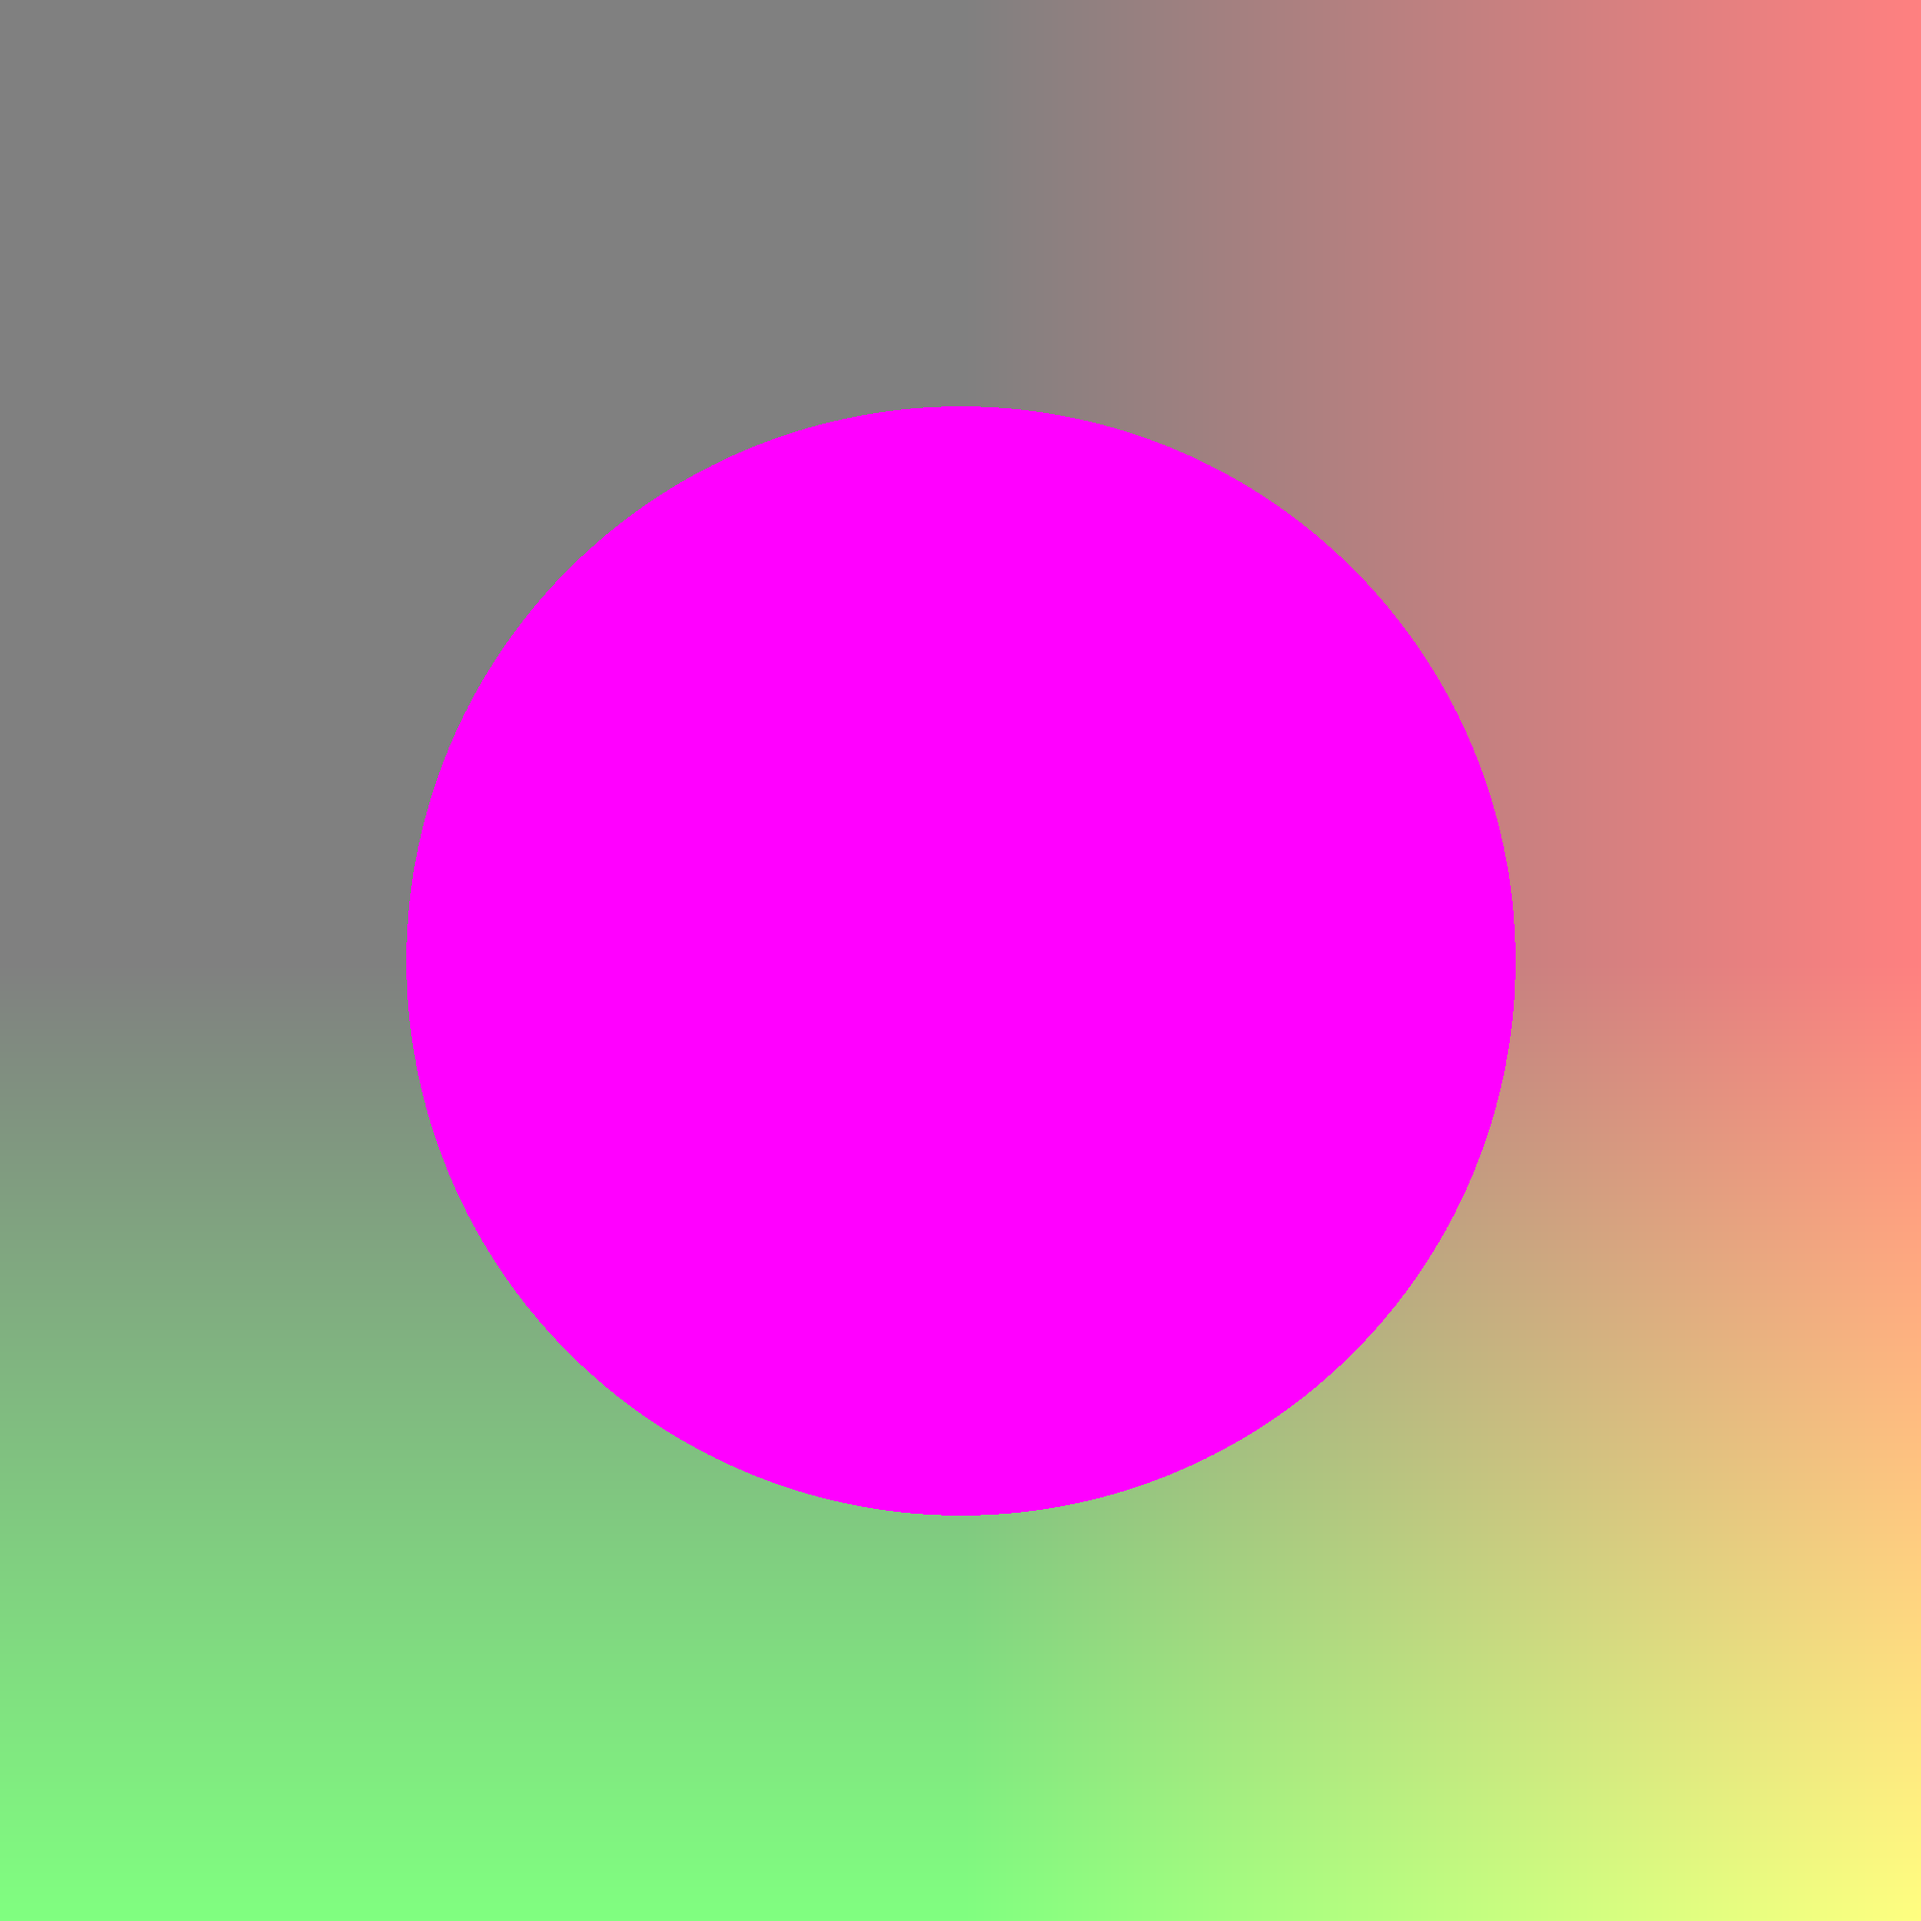
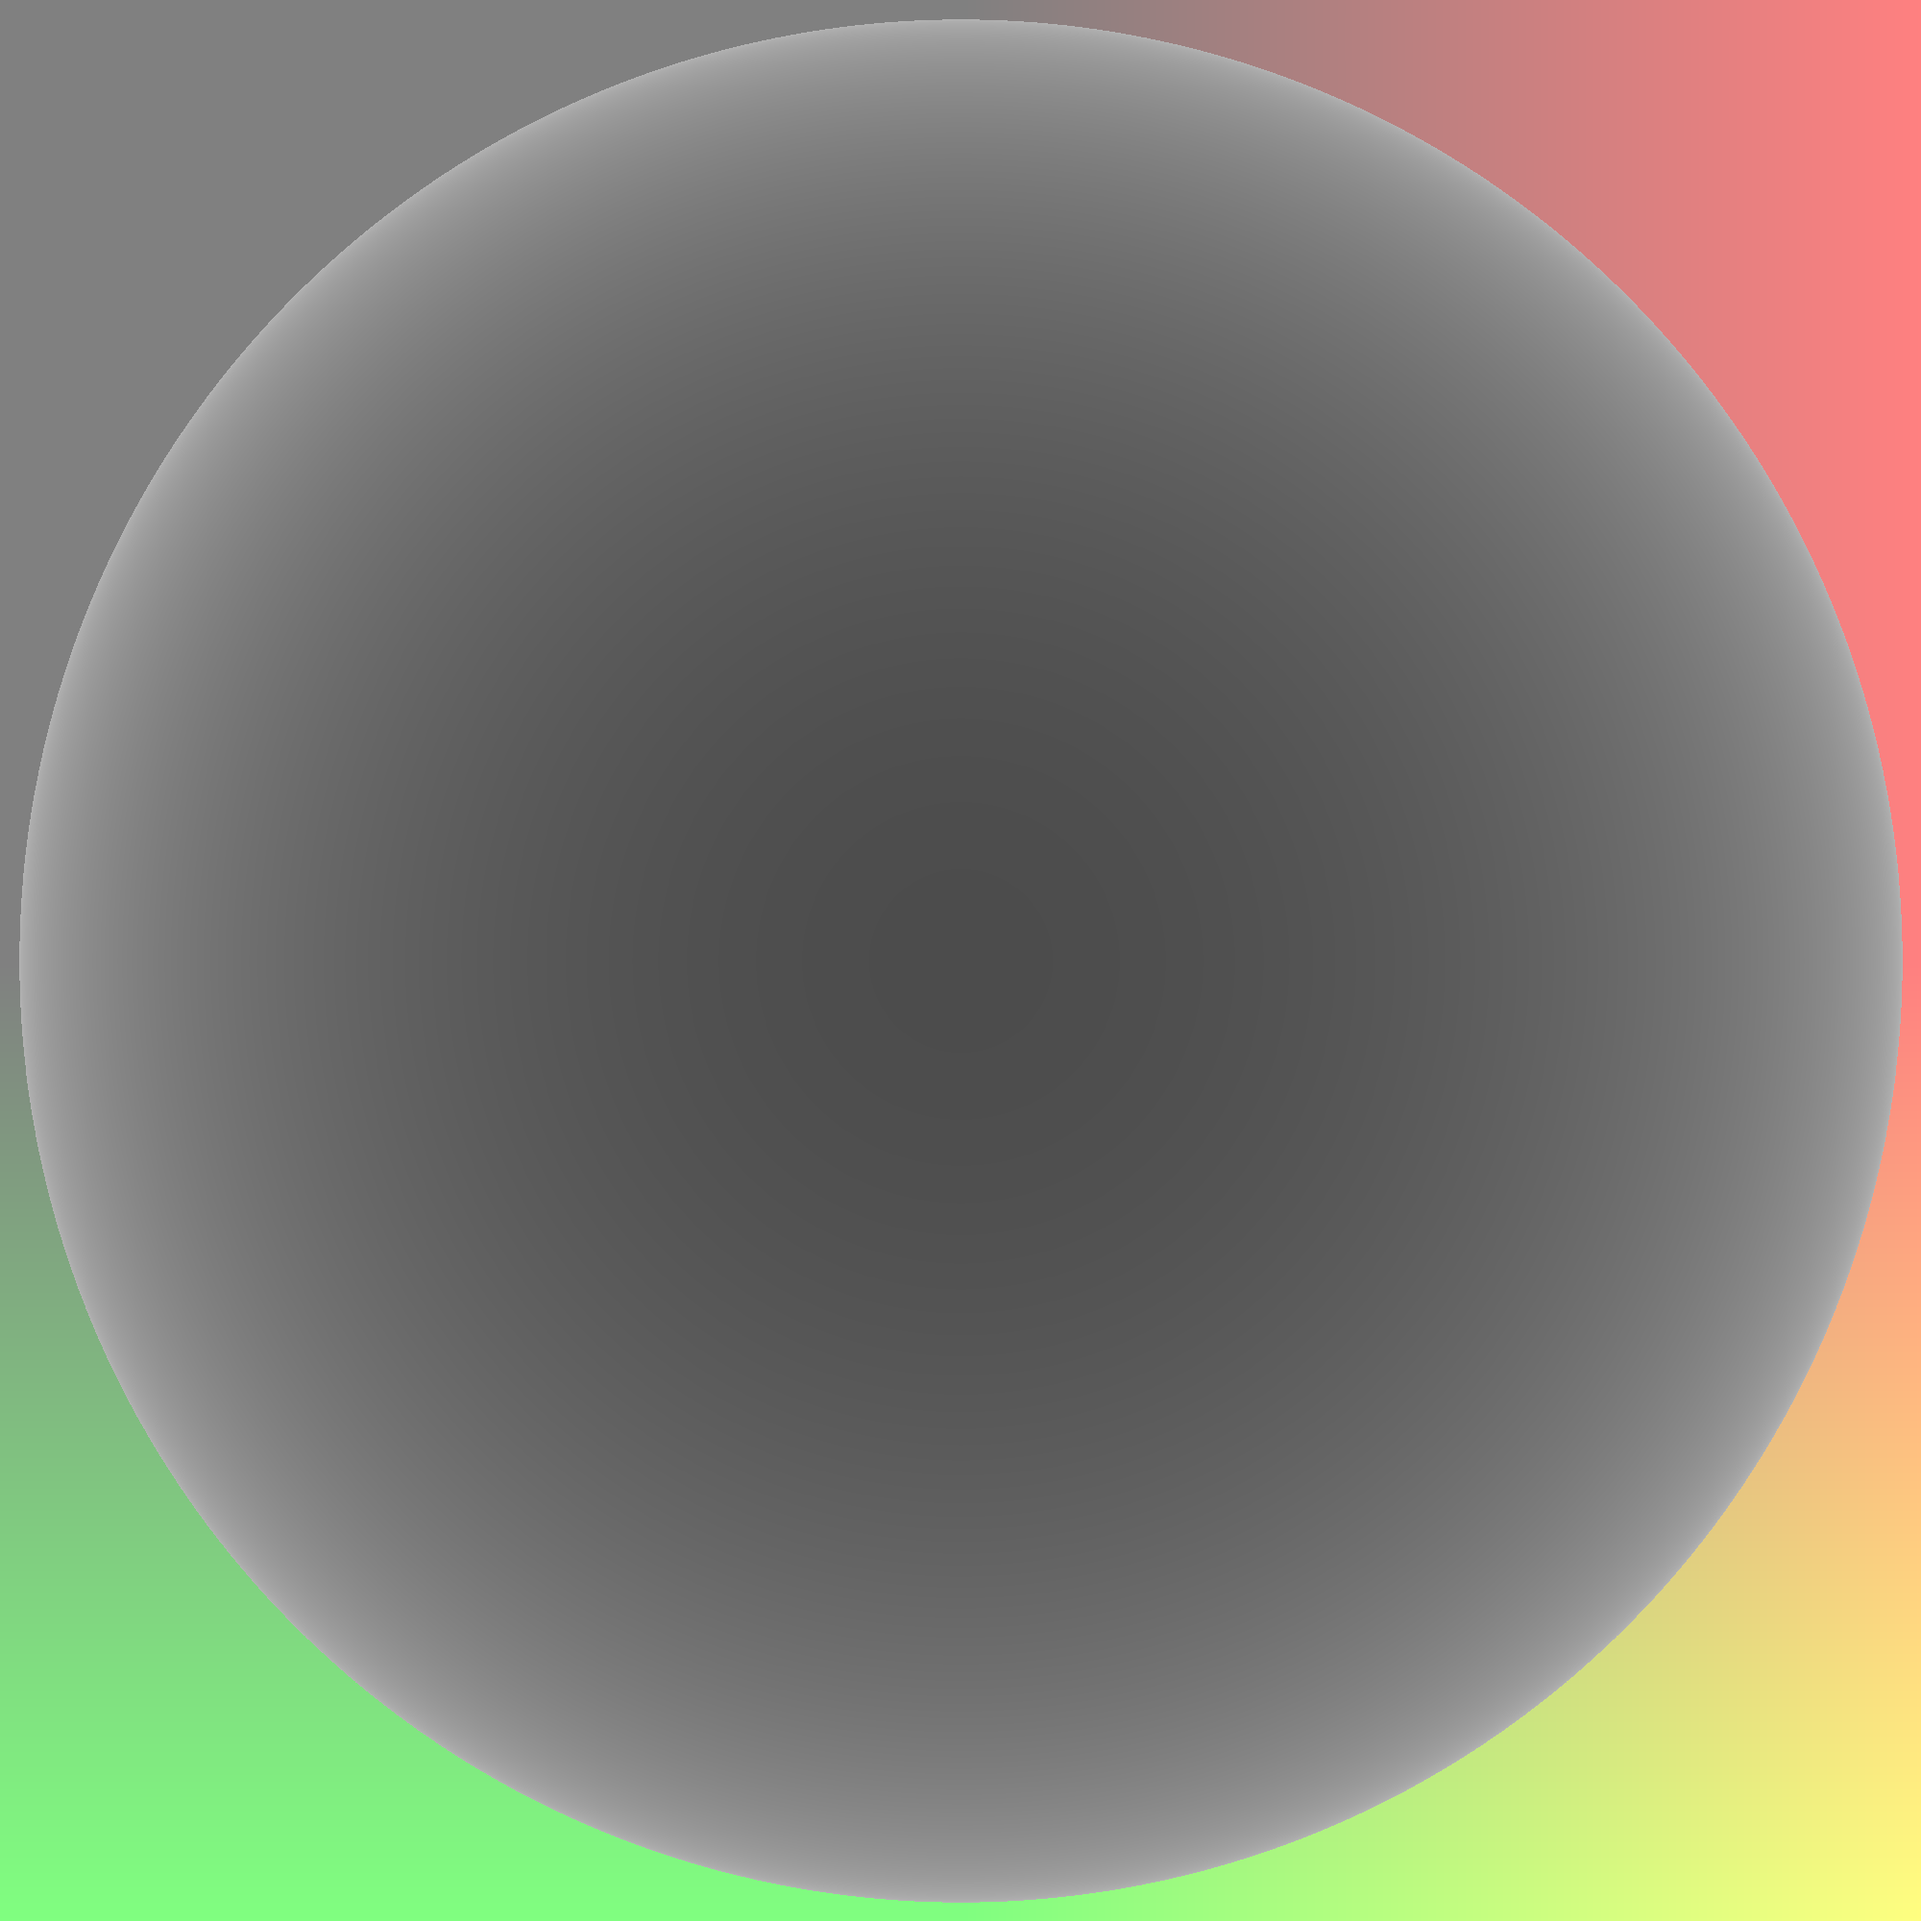
Calculate distance along ray.

diff --git a/src/main.rs b/src/main.rs
@@ -1,6 +1,6 @@
 #![deny(clippy::all)]
 
-use cgmath::{vec3, vec4};
+use cgmath::{vec3, vec4, InnerSpace};
 use std::error::Error;
 use std::fs::File;
 use std::io::BufWriter;
@@ -15,8 +15,8 @@ fn main() -> Result<(), Box<dyn Error>> {
 	let mut renderer = CpuRenderer::new(WIDTH as f32, HEIGHT as f32);
 	renderer.render_layer(|_, coord| {
 		let ray_origin = vec3(0., 0., -1.);
-		let ray_direction = vec3(coord.x, coord.y, -1.);
-		let sphere_radius = 0.5;
+		let ray_direction = vec3(coord.x, coord.y, 1.).normalize_to(1.);
+		let sphere_radius = 0.7;
 
 		let a = cgmath::dot(ray_direction, ray_direction);
 		let b = 2. * cgmath::dot(ray_origin, ray_direction);
@@ -24,8 +24,13 @@ fn main() -> Result<(), Box<dyn Error>> {
 
 		let discriminant = b * b - 4. * a * c;
 
+		// First hit
+		let dist = (-1. * b - (discriminant).sqrt()) / 2. * a;
+		// Second hit
+		let _dist2 = (-1. * b + (discriminant).sqrt()) / 2. * a;
+
 		return if discriminant >= 0. {
-			vec4(1., 0., 1., 1.)
+			vec4(dist, dist, dist, 1.)
 		} else {
 			vec4(coord.x, coord.y, 0., 0.5)
 		};
